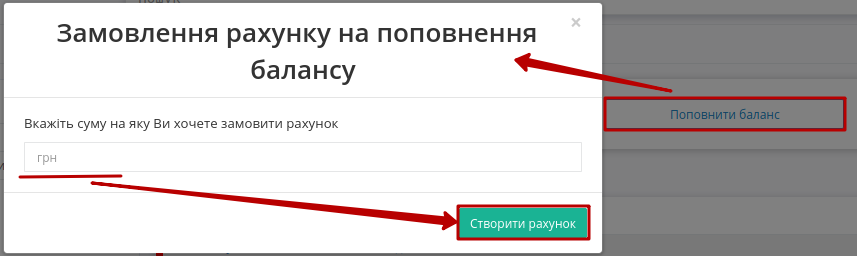
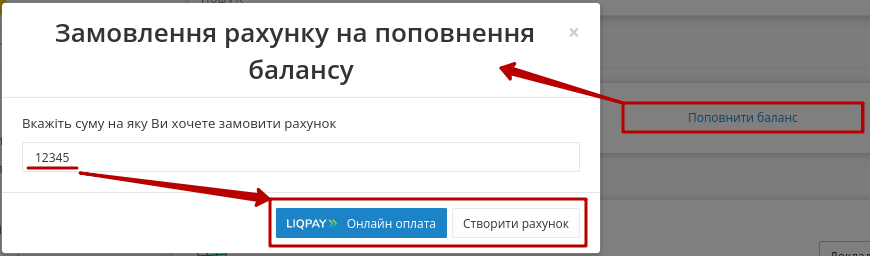
card_pay

diff --git a/docs/Personal_Cabinet/PCInstruction.rst b/docs/Personal_Cabinet/PCInstruction.rst
@@ -464,18 +464,29 @@
 .. image:: pics_New_balance_tariff/New_balance_tariff_03.png
    :align: center
 
-Для **"Поповнення балансу"** потрібно вказати суму поповнення та натиснути кнопку **"Створити рахунок"**:
+Для **"Поповнення балансу"** потрібно вказати суму (грн) і обрати спосіб поповнення: **"Онлайн оплата"** (LiqPay) або **"Створити рахунок"**.
 
 .. image:: pics_New_balance_tariff/New_balance_tariff_04.png
    :align: center
 
-Після чого системою автоматино створюється рахунок-фактура (детальніше в описі розділу меню `"Рахунки" <https://wiki.edin.ua/uk/latest/Personal_Cabinet/PCInstruction.html#invoice>`__):
+.. tabs::
 
-.. image:: pics_PCInstruction/PCInstruction_008.png
-   :align: center
+   .. tab:: Онлайн оплата
 
-.. hint::
-   При створенні рахунку він також автоматично відправляється на пошту.
+      При **"Онлайн оплаті"** відбувається переадресація на сторінку для введення даних карти, використання Google Pay / Apple Pay / Приват24 чи в **"Інший спосіб"**, що доступний на цій сторінці:
+
+      .. image:: pics_PCInstruction/PCInstruction_258.png
+         :align: center
+
+   .. tab:: Створити рахунок
+
+      Після натискання на кнопку **"Створити рахунок"** системою автоматино створюється рахунок-фактура (детальніше в описі розділу меню `"Рахунки" <https://wiki.edin.ua/uk/latest/Personal_Cabinet/PCInstruction.html#invoice>`__):
+
+      .. image:: pics_PCInstruction/PCInstruction_008.png
+         :align: center
+
+      .. hint::
+         При створенні рахунку він також автоматично відправляється на пошту.
 
 По всім здійсненим операціям з балансом ведеться **"Історія операцій"** (має зручний пошук):
 
